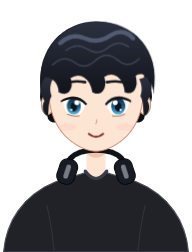
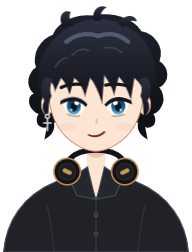
Gnosis drawn after the owner's reference picture
Kept the same chibi mascot, with cues from the owner's picture: messy, fuller black hair with locks flicking out at the sides and nape, a fringe of pointed locks with one between his eyes, a black collared button-up with buttons, big round over-ear headphones in black with a brass ring and an amber plate, a silver cross earring on his left ear, heavier lids and brows, and a slight smirk. Mascot pictures re-rendered; face rebuilt; Gnosis.exe rebuilt.

diff --git a/src/ui/Avatar.tsx b/src/ui/Avatar.tsx
@@ -105,7 +105,7 @@ function Eye({ cx, cy, side }: { cx: number; cy: number; side: 1 | -1 }) {
       </g>
       <path
         className="av-lash"
-        d={`M${cx - 21 * o},${cy + 1} Q${cx - 4 * o},${cy - 20} ${cx + 22 * o},${cy - 5} L${cx + 23 * o},${cy - 1} Q${cx - 3 * o},${cy - 14} ${cx - 19 * o},${cy + 4} Z`}
+        d={`M${cx - 22 * o},${cy + 2} Q${cx - 4 * o},${cy - 19} ${cx + 23 * o},${cy - 4} L${cx + 24 * o},${cy + 2} Q${cx - 3 * o},${cy - 11} ${cx - 19 * o},${cy + 6} Z`}
       />
       <path className="av-lower" d={`M${cx - 9 * o},${cy + 21} Q${cx + 2 * o},${cy + 23} ${cx + 12 * o},${cy + 18}`} />
     </g>
@@ -128,9 +128,10 @@ const Sparkle = ({ x, y, s = 1, d = 0 }: { x: number; y: number; s?: number; d?:
 function EarCup({ x, y, side }: { x: number; y: number; side: 1 | -1 }) {
   return (
     <g className="av-pin" style={{ transformOrigin: `${x}px ${y}px` }}>
-      <circle className="av-pin-glow" cx={x} cy={y} r={30} fill="url(#av-glow)" />
-      <rect className="av-hp-cup" x={x - 15} y={y - 21} width={30} height={42} rx={13} transform={`rotate(${-18 * side} ${x} ${y})`} />
-      <rect className="av-hp-light" x={x - 4} y={y - 12} width={8} height={24} rx={4} transform={`rotate(${-18 * side} ${x} ${y})`} />
+      <circle className="av-pin-glow" cx={x} cy={y} r={34} fill="url(#av-glow)" />
+      <circle className="av-hp-cup" cx={x} cy={y} r={22} />
+      <circle className="av-hp-inner" cx={x} cy={y} r={14} />
+      <rect className="av-hp-light" x={x - 8} y={y - 3.5} width={16} height={7} rx={3.5} transform={`rotate(${-25 * side} ${x} ${y})`} />
     </g>
   )
 }
@@ -250,7 +251,7 @@ export function Avatar() {
 
             {/* Behind everything: the back of his wavy hair, tilting with the head. */}
             <g className="av-tilt">
-              <path fill="url(#av-hair-back)" d="M108,170 C100,100 146,56 200,56 C254,56 300,100 292,170 C296,186 290,200 280,208 C284,218 276,226 266,224 L134,224 C124,226 116,218 120,208 C110,200 104,186 108,170 Z" />
+              <path fill="url(#av-hair-back)" d="M96,176 C80,162 88,140 100,132 C92,110 108,84 128,78 C136,56 166,42 196,46 C226,38 262,50 276,72 C298,76 314,98 306,122 C322,132 324,156 306,166 C318,182 312,204 296,210 C304,224 294,236 282,232 L286,252 C272,246 268,234 270,224 L130,224 C132,234 128,246 114,252 L118,232 C106,236 96,224 104,210 C88,204 82,182 96,176 Z" />
             </g>
 
             {/* Neck and his black shirt. */}
@@ -260,8 +261,14 @@ export function Avatar() {
               className="av-blazer"
               d="M46,440 C52,370 100,330 154,316 C168,312 180,310 184,306 Q200,326 216,306 C220,310 232,312 246,316 C300,330 348,370 354,440 Z"
             />
-            {/* The crew neck's ribbed band, and the folds where the sleeves meet the body. */}
-            <path className="av-collar" d="M182,305 Q200,330 218,305" />
+            {/* The open neck of his button-up, its collar, the placket and buttons, and the folds where
+                the sleeves meet the body. */}
+            <path className="av-skin-plain" d="M184,304 L200,350 L216,304 Z" />
+            <path className="av-placket" d="M200,350 L200,440" />
+            <path className="av-collar-flap" d="M186,298 L156,318 L168,346 L199,352 Z" />
+            <path className="av-collar-flap" d="M214,298 L244,318 L232,346 L201,352 Z" />
+            <circle className="av-button" cx="200" cy="378" r="3.2" />
+            <circle className="av-button" cx="200" cy="410" r="3.2" />
             <path className="av-seam" d="M118,362 C124,388 128,414 130,440 M282,362 C276,388 272,414 270,440" />
 
             {/* Headphones round his neck: the band behind, a cup on each side. They go on his ears while
@@ -298,7 +305,7 @@ export function Avatar() {
 
               <path className="av-nose" d="M200,219 Q203,224 199,226" />
 
-              <path className={mouth('smile')} d="M188,243 Q200,253 212,243" />
+              <path className={mouth('smile')} d="M188,245 Q202,251 214,240" />
               <g className={mouth('talk')}>
                 <path fill="#8a2b2b" d="M187,242 Q200,239 213,242 Q212,261 200,262 Q188,261 187,242 Z" />
                 <path fill="#ec7f80" d="M192,255 Q200,250 208,255 Q200,261 192,255 Z" />
@@ -315,25 +322,35 @@ export function Avatar() {
               {/* Wavy hair: a fringe of soft rounded waves swept to his right, and waves at the sides. */}
               <path
                 fill="url(#av-hair)"
-                d="M108,176 C98,104 146,56 202,56 C262,56 308,102 296,174 C292,150 280,138 266,146 C272,166 262,180 248,174 C246,150 230,138 214,148 C220,168 208,182 194,174 C190,150 174,140 158,150 C164,170 152,182 138,174 C136,154 124,146 114,158 C111,164 109,170 108,176 Z"
+                d="M104,172 C94,104 146,52 204,52 C264,52 308,100 298,170 C294,160 290,154 285,150 L283,180 C278,166 272,156 264,150 L258,186 C252,168 246,156 238,148 L230,178 C226,164 220,154 214,146 L210,192 C204,172 198,158 190,150 L182,180 C178,166 172,156 164,150 L156,178 C152,164 148,156 142,150 L132,172 C130,162 126,156 120,152 C114,158 108,164 104,172 Z"
               />
               <path fill="url(#av-hair)" d="M116,148 C104,162 108,178 114,188 C108,198 112,210 120,214 C122,200 120,190 126,180 C122,170 124,160 128,152 Z" />
               <path fill="url(#av-hair)" d="M284,148 C296,162 292,178 286,188 C292,198 288,210 280,214 C278,200 280,190 274,180 C278,170 276,160 272,152 Z" />
-              <path className="av-shine-hair" d="M140,92 Q160,74 182,84 Q204,94 226,78 Q246,66 262,84" />
-              <path className="av-wave" d="M128,128 Q146,110 164,124 Q182,138 200,120 Q218,104 236,120 Q254,136 272,118" />
-              <path className="av-wave" d="M150,104 Q168,90 186,102 Q204,114 222,98 Q238,86 254,98" />
+              {/* Tufts on the crown, and strands catching the light. */}
+              <path fill="url(#av-hair)" d="M146,66 C134,48 146,34 158,40 C154,48 156,56 164,62 Z" />
+              <path fill="url(#av-hair)" d="M236,60 C248,42 266,44 268,56 C258,52 250,56 246,66 Z" />
+              <path fill="url(#av-hair)" d="M196,54 C192,36 206,26 218,32 C210,36 206,44 208,54 Z" />
+              <path className="av-shine-hair" d="M150,90 Q176,70 204,80 Q232,70 254,90" />
+              <path className="av-wave" d="M160,112 Q172,98 188,104 M214,100 Q230,96 244,108 M132,132 Q140,118 152,116" />
 
               {/* The headphones, on his ears. */}
               <g className={fx('phones')}>
                 <path className="av-hp-band" d="M114,190 C108,92 292,92 286,190" />
-                <rect className="av-hp-cup" x="104" y="170" width="24" height="44" rx="11" />
-                <rect className="av-hp-cup" x="272" y="170" width="24" height="44" rx="11" />
-                <rect className="av-hp-light" x="112" y="182" width="7" height="20" rx="3.5" />
-                <rect className="av-hp-light" x="281" y="182" width="7" height="20" rx="3.5" />
+                <circle className="av-hp-cup" cx="114" cy="194" r="21" />
+                <circle className="av-hp-inner" cx="114" cy="194" r="13" />
+                <circle className="av-hp-cup" cx="286" cy="194" r="21" />
+                <circle className="av-hp-inner" cx="286" cy="194" r="13" />
+                <rect className="av-hp-light" x="107" y="190.5" width="14" height="7" rx="3.5" />
+                <rect className="av-hp-light" x="279" y="190.5" width="14" height="7" rx="3.5" />
               </g>
 
-              <path className="av-brow av-brow-l" d="M144,160 Q162,153 182,157" />
-              <path className="av-brow av-brow-r" d="M218,157 Q238,153 256,160" />
+              <path className="av-brow av-brow-l" d="M142,166 Q160,157 184,162" />
+              <path className="av-brow av-brow-r" d="M216,162 Q240,157 258,166" />
+
+              <g className="av-earring">
+                <circle cx="119" cy="214" r="3.2" />
+                <path d="M119,218 L119,238 M113,225 L125,225" />
+              </g>
 
               {/* Little extras that come and go with the pose. */}
               <path className={fx('sweat')} d="M281,146 C275,158 275,166 281,168 C287,166 287,158 281,146 Z" />

diff --git a/src/ui/avatar.css b/src/ui/avatar.css
@@ -236,3 +236,16 @@ html[data-cards='1'] .avatar-stage { transform: translate(-21vw, -11vh) scale(0.
   .avatar .av-tilt, .avatar .av-hand, .avatar .av-steam { animation: none !important }
 }
 .avatar .av-wave { fill: none; stroke: #4a5266; stroke-width: 2.4; stroke-linecap: round; opacity: 0.7 }
+
+/* From the owner's reference picture: a collared button-up, brass-trimmed headphones, a silver cross
+   earring, heavier brows. */
+.avatar .av-collar-flap { fill: #25272e; stroke: #4a4e58; stroke-width: 1.6; stroke-linejoin: round }
+.avatar .av-placket { fill: none; stroke: #33363e; stroke-width: 2 }
+.avatar .av-button { fill: #2c2f36; stroke: #5a5f6a; stroke-width: 1 }
+.avatar .av-hp-cup { fill: #121418; stroke: #b98a4f; stroke-width: 2.6 }
+.avatar .av-hp-inner { fill: #1b1e24; stroke: #2a2d34; stroke-width: 1.5 }
+.avatar .av-hp-light { fill: #c99556; opacity: 1 }
+.avatar[data-pose="magic"] .av-hp-light { fill: color-mix(in srgb, var(--av-accent) 85%, white) }
+.avatar .av-hp-band { stroke: #121418 }
+.avatar .av-earring circle, .avatar .av-earring path { fill: none; stroke: #d4d8de; stroke-width: 2.6; stroke-linecap: round }
+.avatar .av-brow { stroke-width: 5.5 }
